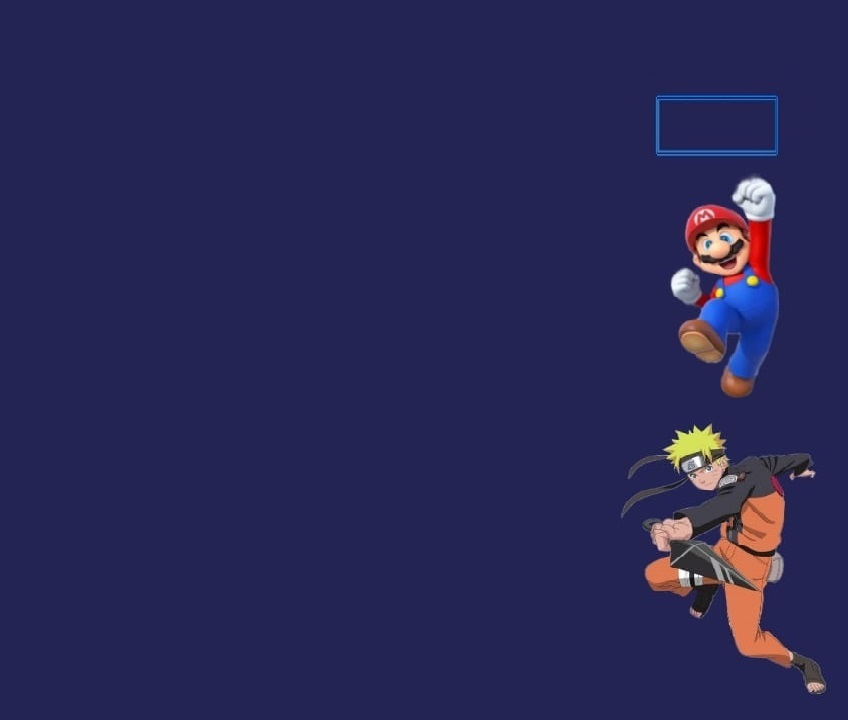
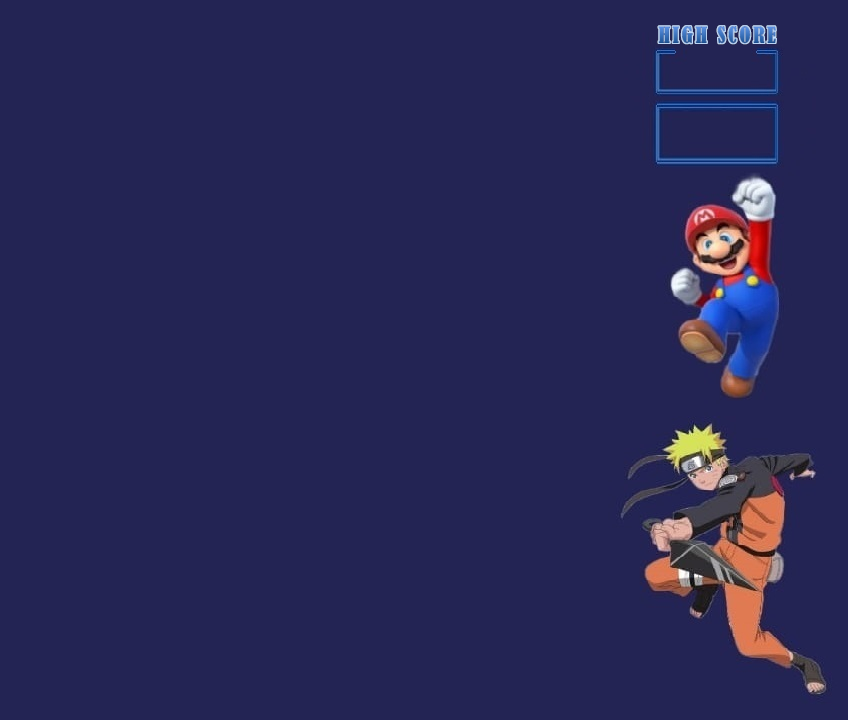
Ventana inicial y highscore

Changed region(s): [[0.7665, 0.0306, 0.9198, 0.1528], [0.7665, 0.1833, 0.9198, 0.2444]]

diff --git a/GUI/GUI.java b/GUI/GUI.java
@@ -3,12 +3,14 @@ package GUI;
 import java.awt.event.ActionEvent;
 import java.awt.event.ActionListener;
 import java.awt.Color;
+import java.awt.Font;
 
 import javax.swing.ImageIcon;
 import javax.swing.JFrame;
 import javax.swing.JLabel;
 import javax.swing.JOptionPane;
 import javax.swing.JPanel;
+import javax.swing.SwingConstants;
 import javax.swing.Timer;
 import javax.swing.border.EmptyBorder;
 
@@ -25,7 +27,7 @@ public class GUI extends JFrame {
 	/**
 	 * Create the frame.
 	 */
-	public GUI() {
+	public GUI(int tematica) {		
 		setTitle("PacMan Modificado");
 		setDefaultCloseOperation(JFrame.EXIT_ON_CLOSE);
 		setBounds(0, 0, 800, 679);
@@ -35,29 +37,33 @@ public class GUI extends JFrame {
 		setContentPane(contentPane);
 		contentPane.setLayout(null);
 		
+		JLabel nombreHighScore = new JLabel("");
+		nombreHighScore.setForeground(Color.WHITE);
+		nombreHighScore.setHorizontalAlignment(SwingConstants.CENTER);
+		nombreHighScore.setVerticalAlignment(SwingConstants.CENTER);
+		nombreHighScore.setBounds(680, 22, 72, 18);
+		contentPane.add(nombreHighScore);
+		
+		JLabel puntajeHighScore = new JLabel("");
+		puntajeHighScore.setForeground(Color.WHITE);
+		puntajeHighScore.setFont(new Font("Gadugi", 1, 14));
+		puntajeHighScore.setHorizontalAlignment(SwingConstants.CENTER);
+		puntajeHighScore.setVerticalAlignment(SwingConstants.CENTER);
+		puntajeHighScore.setBounds(660, 35, 115, 35);
+		contentPane.add(puntajeHighScore);
+		
 		JLabel puntaje = new JLabel("Puntaje:");
 		puntaje.setForeground(Color.WHITE);
-		puntaje.setBounds(670, 22, 200, 140);
+		puntaje.setBounds(670, 92, 100, 18);
 		contentPane.add(puntaje);
 		
 		JLabel vidas = new JLabel("Vidas:");
 		vidas.setForeground(Color.WHITE);
-		vidas.setBounds(670, 44, 200, 140);
+		vidas.setBounds(670, 115, 100, 18);
 		contentPane.add(vidas);
 		
-		
-		String [] arr = new String[2];
-		arr[0] = "Tematica Mario Bros";
-		arr[1] = "Tematica Naruto";
-		int respuesta = 0;
-		
-		respuesta = JOptionPane.showOptionDialog(null, "Elija una tematica para el videojuego:", "Tematica", JOptionPane.DEFAULT_OPTION, JOptionPane.INFORMATION_MESSAGE, null, arr, 0);
-
-		if (respuesta == -1)//(Cuando se cierra la ventana con la x, devuelve -1)
-			respuesta = 0;
-		
 		contenedorJuego= new Contenedor (this);	
-		Juego j=new Juego (this, contenedorJuego, respuesta);
+		Juego j=new Juego (this, contenedorJuego, tematica);
 		this.miJuego= j;
 		ActionListener l1 =new ActionListener(){
 	        public void actionPerformed(ActionEvent ae){
@@ -67,6 +73,11 @@ public class GUI extends JFrame {
 	    };
         Timer t1 = new Timer(100,l1);
         t1.start();
+        
+        //Establece el puntaje High Score
+	    String[] highScore = miJuego.getPuntajeMaximo();
+	    nombreHighScore.setText(highScore[0]);
+	    puntajeHighScore.setText(highScore[1]);
         
 		JLabel background = new JLabel("");
 		background.setIcon(new ImageIcon(GUI.class.getResource("/images/Background.png")));
@@ -80,15 +91,16 @@ public class GUI extends JFrame {
 		return contentPane;
 	}
 
-
-	public void mostrarCartel(int p, int seg, int gano) {
+	public void mostrarMensajeFinDeJuego(int p, int seg, int gano) {
 		String s;
 		if (gano== 0)
-			s= "GAME OVER. Su puntaje es de: " + p + ". Duracion de la partida: " +seg+" segundos.";
+			s= "GAME OVER. Su puntaje es de: " + p + " y la duracion de la partida fue de: " +seg+" segundos.\nIngrese su nombre:";
 		else 
-			s= "HAS GANADO!. Su puntaje es de: " + p + ". Duracion de la partida: " + seg+" segundos.";
+			s= "HAS GANADO!. Su puntaje es de: " + p + " y la duracion de la partida: " + seg+" segundos.\nIngrese su nombre:";
 		miJuego.detenerJuego();
-		JOptionPane.showMessageDialog(contentPane, s, "Juego terminado", 1);
+		//INPUT DIALOG Y PASAR EL NUEVO JUGADOR A JUEGO Y DESPUES CREAR EL NUEV CARTEL DE FINALIZAR Y LISTO. REEMPLAZAR EL NUEVO POR EL IMPUT Y CHAU. NUEVO FRAME
+		String nombre = JOptionPane.showInputDialog(s);
+		miJuego.guardarNuevoPuntaje(nombre);
 		System.exit(1);		
 	}
 	

diff --git a/Puntajes/GestorDePuntajes.java b/Puntajes/GestorDePuntajes.java
@@ -1,0 +1,93 @@
+package Puntajes;
+
+import java.io.BufferedReader;
+import java.io.BufferedWriter;
+import java.io.File;
+import java.io.FileReader;
+import java.io.FileWriter;
+import java.io.IOException;
+import java.util.ArrayList;
+import java.util.Collections;
+import java.util.Comparator;
+import java.util.List;
+
+public class GestorDePuntajes {
+//-------------Falta usar estas clases en el juego y mostrar los higscores. modificar la imagen de background
+	private static final String RUTA_ARCHIVO = "src/Puntajes/Puntajes.txt";
+	private final File archivo; 
+	
+	
+	//_----------------Cambie los metodos de gpt le borre los static para reemplazar el NOmbreArchivo por el file. Capaz falta un fileOpen algo de eso
+	
+	public GestorDePuntajes() {
+		archivo = new File(RUTA_ARCHIVO);
+	}
+	
+	
+	/**
+	 * Guarda en un archivo de texto los datos obtenidos por un jugador.
+	 * @param jugador Jugador actual.
+	 */
+    public void guardarPuntaje(Jugador jugador) { 	
+    	List<Jugador> puntajes = cargarPuntajes();
+        puntajes.add(jugador);
+        Collections.sort(puntajes, Collections.reverseOrder(Comparator.comparingInt(Jugador::getPuntaje)));
+
+        //NO ORDENA TODOS LOS PUNTAJES. CUANDO SE GUARDA UN PUNTAJE NUEVO.
+        
+        try (BufferedWriter writer = new BufferedWriter(new FileWriter(archivo, true))) {
+            writer.write(jugador.getNombre() + "," + jugador.getPuntaje() + "," + jugador.getTiempoJugado());
+            writer.newLine();
+        } catch (IOException e) {
+            e.printStackTrace();
+        }
+    }
+
+    /**
+     * Carga todos los puntajes historicos al sistema.
+     * @return Lista con los datos de las partidas de todos los jugadores.
+     */
+    public List<Jugador> cargarPuntajes() {
+        List<Jugador> puntajes = new ArrayList<>();
+
+        try (BufferedReader reader = new BufferedReader(new FileReader(archivo))) {
+            String linea;
+            
+            //Lee una linea, la asigna a la variable y luego evalua si es distinta de null.
+            while ((linea = reader.readLine()) != null) {
+                String[] datos = linea.split(",");
+                if (datos.length == 3) {
+                    String nombre = datos[0];
+                    int puntaje = Integer.parseInt(datos[1]);
+                    int tiempoSegundos = Integer.parseInt(datos[2]);
+                    Jugador jugador = new Jugador(nombre, puntaje, tiempoSegundos);
+                    puntajes.add(jugador);
+                }
+            }
+        } catch (IOException e) {
+            e.printStackTrace();
+        }
+
+        return puntajes;
+    }
+    
+    public Jugador jugadorConMayorPuntajeActual() {
+    	Jugador salida = null;
+
+        try (BufferedReader reader = new BufferedReader(new FileReader(archivo))) {
+            String linea = reader.readLine();
+            
+	                String[] datos = linea.split(",");
+	                if (datos.length == 3) {
+	                    String nombre = datos[0];
+	                    int puntaje = Integer.parseInt(datos[1]);
+	                    int tiempoSegundos = Integer.parseInt(datos[2]);
+	                    salida = new Jugador(nombre, puntaje, tiempoSegundos);
+                }            
+        } catch (IOException e) {
+            e.printStackTrace();
+        }
+
+        return salida;
+    }
+}

diff --git a/Logica/Juego.java b/Logica/Juego.java
@@ -15,6 +15,8 @@ import FabricaTematica.FabricaTematicasAbstracta;
 import GUI.Contenedor;
 import GUI.GUI;
 import Musica.Musica;
+import Puntajes.GestorDePuntajes;
+import Puntajes.Jugador;
 
 public class Juego {
 
@@ -29,6 +31,7 @@ public class Juego {
 	protected Musica musica;
 	protected int cantidadVidas;
 	protected FabricaTematicasAbstracta miFabrica;
+	GestorDePuntajes puntajes;
 	
 	public Juego (GUI ventana, Contenedor contenedorJuego, int fabrica) {
 		miVentana= ventana;
@@ -48,6 +51,7 @@ public class Juego {
 		musica=new Musica();
 		correrMusica();
 		cantidadVidas = 30;
+		puntajes = new GestorDePuntajes();
 	}
 	
 	public int getSegundoActual() {
@@ -57,10 +61,10 @@ public class Juego {
 	private FabricaTematicasAbstracta crearFabrica(int fabrica) {
 		FabricaTematicasAbstracta salida = null;
 		switch(fabrica) {
-		case 0:
+		case 1:
 			salida =  new FabricaTematicaMarioBross(miGrilla, miContenedor);
 			break;
-		case 1:
+		case 2:
 			salida =  new FabricaTematicaNaruto(miGrilla, miContenedor);
 			break;
 		}
@@ -154,7 +158,7 @@ public class Juego {
 	public void restarUnaVida() {
 		cantidadVidas--;
 		if (cantidadVidas <= 0) {
-			miVentana.mostrarCartel(getPuntaje(), miCronometro.getSegundosTranscurridos(), 0 );
+			miVentana.mostrarMensajeFinDeJuego(getPuntaje(), miCronometro.getSegundosTranscurridos(), 0 );
 		}
 	}
 	
@@ -183,7 +187,7 @@ public class Juego {
 	}
 
 	public void finalizarJuegoExitoso() {
-		miVentana.mostrarCartel(getPuntaje(), miCronometro.getSegundosTranscurridos(), 1 ); 
+		miVentana.mostrarMensajeFinDeJuego(getPuntaje(), miCronometro.getSegundosTranscurridos(), 1 ); 
 	}
 
 	public void detenerJuego() {
@@ -192,4 +196,16 @@ public class Juego {
 		miCronometro.detener();
 	}
 
+	public String[] getPuntajeMaximo() {
+		String[] arr = new String[2];
+		Jugador jugador = puntajes.jugadorConMayorPuntajeActual();
+		arr[0] = jugador.getNombre();
+		arr[1] = jugador.getPuntaje()+"";
+		return arr;
+	}
+	
+	public void guardarNuevoPuntaje(String nombre) {
+		Jugador nuevo = new Jugador(nombre, puntaje, miCronometro.getSegundosTranscurridos());
+		puntajes.guardarPuntaje(nuevo);
+	}
 }

diff --git a/GUI/Launcher.java b/GUI/Launcher.java
@@ -11,8 +11,8 @@ public class Launcher {
 		EventQueue.invokeLater(new Runnable() {
 			public void run() {
 				try {
-					GUI frame = new GUI();
-					frame.setVisible(true);
+					VentanaInicial ventana = new VentanaInicial();
+					ventana.setVisible(true);
 				} catch (Exception e) {
 					e.printStackTrace();
 				}
